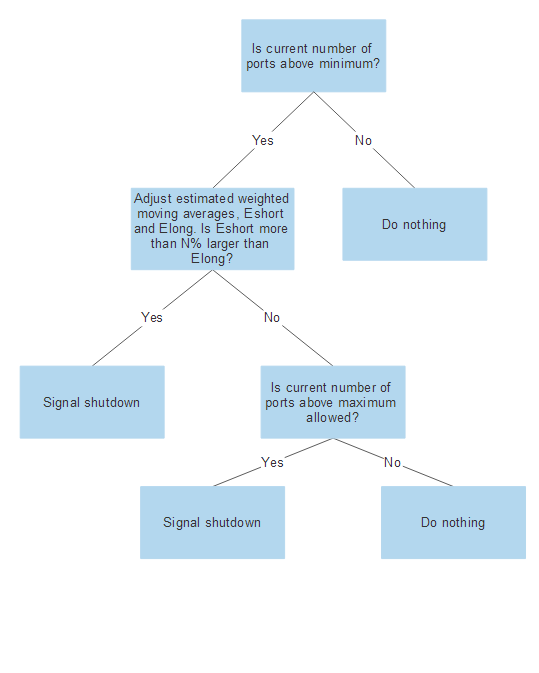
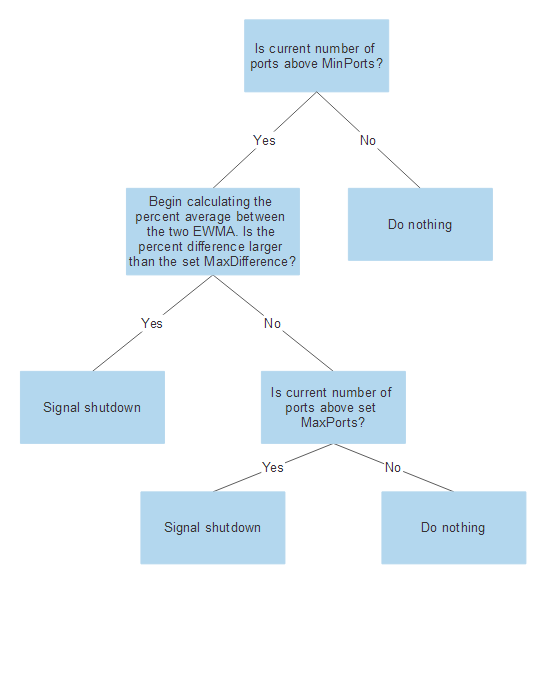
Correction to misspelling, and added information.

diff --git a/README.md b/README.md
@@ -71,43 +71,53 @@ If one of these two values isn't provided, the code signing stage will skip itse
 
 ##Project Description
 
-This project is designed to detect a sudden increase in the TCP port count in a system, and gracefully shutdown the `ActorSystem` when this is observed. 
+This project is designed to help detect a sudden increase in the TCP port count in a system, and gracefully shutdown the `ActorSystem` when this is observed. The configuration can be set to monitor slow increases or fast spikes in TCP port growth for one ore more local endpoints. 
 
 ###Methodology 
 
 The impulse response is done through the use of an Exponential Weighted Moving Average(EWMA). `EWMA` allows the observer to determine how much weight we want to emphasize in older readings versus newer readings. 
 
-To calculate when a large increase in TCP ports is detected, two EWMA's will be taken. One will have a short sample size and the other will have a larger sample size. Having a shorter sample size will result in the average being more responsive to change. Where a larger sample size will smooth out quick changes and be less responsive to change. 
+To calculate when a large increase in TCP ports is detected, two EWMA's will be taken. One will have a short sample size and the second will have a larger sample size. Having a shorter sample size will result in the average being more responsive to change. Where a larger sample size will smooth out quick changes and be less responsive to change.
 
-Using this behavior, we compare the two EMWA's and determine the difference between the two average. When there is a spike in the readings, the difference between the two averages will increase, with a fast increase resulting in a larger difference between the two averages. 
+Using this behavior, we compare the two EWMA's and determine the difference between the two. When a spike in TCP port count is experienced, the short sample EWMA will grow faster than the long sample EWMA will take longer to normalize. The percent difference between the two, will signal how quickly the TCP growth is. To monitor a fast change and have the system be more responsive to an increase, you will want to keep these sample sizes smaller. If you would like to monitor slower gradual changes, the sample rates can be increased. 
+
+The main way to detect a growth in TCP port count will be through the use of these average differences. However you may have a case where the growth in TCP port count is gradually increasing. Gradual enough where the difference between the two averages does not trigger a warning. To prevent the system from reaching a TCP exhaustion in such a a case, a limit can be set on the maximum number of ports an endpoint can have. When this maximum amount is set, the `ActorSystm` will be terminated when the port count exceeds this threshold. 
+
+The following is a graphical interpretation of how the system works when the there is an increase in the count, how each EWMA reacts to the change and how the percent difference grows due to this. In the values below, EMWA1 is our short sample EMWA and EWMA2 is our long sample EWMA. With CounterValue being the actual count we are seeing.
+
+  ***EWMA Divergence Graph***
+<div style="text-align:center"><img src ="docs/images/EWMA-Graph.png" /></div>
 
 ###Implementation
 
-The project is intended to help detect and warn when an increase in TCP port count is expected for one or more network interfaces. The project will be implemented by the creation of a `TcpPortUseSupervisor` actor. This actor will be created using the `ActorSystem` that we want to monitor and terminate if a large increase in TCP connections is detected. 
+The project is intended to help detect and warn when an increase in TCP port count is expected for one or more network interfaces. The project will be implemented by the creation of a `TcpPortUseSupervisor` actor. This actor will be created using the `ActorSystem` that we want to monitor and terminate in case of a large increase in TCP port count. 
 
-![A work flow of the below TCP port detection](docs/images/Message-Decision-Tree.png)
+***A work flow of the TCP port detection process***
+![](docs/images/Detection-WorkFlow.png)
 
-The `TcpPortUseSupervisor actor will create a ` TcpPortMonitoringActor which will scan all of the open TCP ports and group these by the local endpoints.  The count for each local endpoint will then be sent back to the `TcpPortUseSupervisor actor. 
 
-The `TcpPortUseSupevisor actor will then take these readings and determine if the number of TCP ports exceeds our normal operating numbers(MinPorts`). If the `MinPorts` number is exceeded, the actor will then signal the `SocketLeakDetectorActor` to begin monitoring the TCP ports for that particular endpoint. 
+The `TcpPortUseSupervisor` actor will create a  TcpPortMonitoringActor which will scan all of the open TCP ports and group these by the local endpoint.  The count for each local endpoint will then be sent back to the `TcpPortUseSupervisor` actor. 
 
-The `SocketLeakDetectorActor` will then continue to monitor the TCP port count for the specified endpoint through the use of the EWMA. When a fast increase in the TCP count is observed that exceeds the defined `MaxDifference`, a warning will be logged and a timer will be started. If the increase does not normalize within the set `BreachDuration` period, this actor will then signal the `TcpPortUseSupevisor actor that we need to terminate the `ActorSystem` to prevent port exhaustion. 
+The `TcpPortUseSupevisor` actor will then take these readings and determine if the number of TCP ports exceeds our normal operating numbers(MinPorts). If the `MinPorts` number is exceeded, the actor will then signal the `SocketLeakDetectorActor` to begin monitoring the TCP ports for that particular endpoint. 
 
-If the `SocketLeakDetectorActor` does not see a fast increase in the TCP port count but does see a continuous increase in the TCP port count, it will continue to monitor that local endpoint. If the number of TCP ports exceeds the `MaxPorts` allowed and does not drop below the `MaxPorts within the `BreachDuration` period, the `SocketLeakDetectorActor` will send a termination message back to the `SocketLeakDetectorActor` Actor. 
+The `SocketLeakDetectorActor` will then continue to monitor the TCP port count for the specified endpoint through the use of EWMA's. When a fast increase in the TCP count is observed that exceeds the defined `MaxDifference`, a warning will be logged and a timer will be started. If the increase does not normalize within the set `BreachDuration` period, this actor will then signal the `TcpPortUseSupevisor` actor that we need to terminate the `ActorSystem` to prevent port exhaustion. 
 
-A `BreachDuration` period is set, to allow the system to normalize in the event that the system experiences a short increase in the TCP port count but is able to lower these ports back to a normal state without outside intervention. 
+If the `SocketLeakDetectorActor` does not see a fast increase in the TCP port count but does see a continuous increase in the TCP port count, it will continue to monitor that local endpoint. If the number of TCP ports exceeds the `MaxPorts` allowed and does not drop below the `MaxPorts` within the `BreachDuration` period, the `SocketLeakDetectorActor` will send a termination message back to the `TcpPortUseSupevisor` Actor. 
 
-![The signal shutdown logic can be seen in the below diagram](docs/images/Message-Decision-Tree.png)
+A `BreachDuration` period is set to allow the system to normalize in the event that the system experiences a short increase in the TCP port count but is able to lower these ports back to a normal state without outside intervention. 
+<div>
+<div style="text-align:center">The signal shutdown logic can be seen in the below diagram<img src ="docs/images/Message-Decision-Tree.png" /></div>
+
 
 ###Configuration
 
-You will only need to create the `TcpPortUseSupervisor` actor to be able to monitor the TCP port growth in your system. This actor comes with default settings and does not require you to pass any settings if you do not want to edit these. You can however, create your own `SocketLeakDetectorSettigns` to modify how responsive you want your system to be. The following are the allowed configurations: 
+You will only need to create the `TcpPortUseSupervisor` actor to be able to monitor the TCP port growth in your system. This actor comes with default settings and does not require you to pass any customized settings for it to be used. You can however, create your own `SocketLeakDetectorSettigns` to modify how responsive you want your system to be. The following are the configurable settings: 
 
 ####SocketLeakDetectorSettings
 
 **MaxPorts**: The maximum allowed TCP ports for a set endpoint. If a port count for a particular endpoint exceeds this number, we will signal for the `ActorSystem` to be shutdown if it does not fall below the `MaxPorts` count under the `BreachDuration` period. 
 
-If you will like to have a maximum number of ports allowed before the `ActorSystem` is terminated you will want to lower this number. 
+If you will like to have a maximum number of ports allowed before the `ActorSystem` is terminated you will want to edit this number. 
 
 ***The default value*** is set to 65536 ports, which is the theoretical max allowed number of ports you can have on one endpoint. Please note you want the `MaxPorts` to be larger than your `MinPorts`.
 
@@ -117,24 +127,23 @@ You will want to set this number above the normal expected port count you plan t
 
 ***The default value*** set for this is for 100 ports. 
 
-**MaxDifference**: This will signal the max difference between the short sample EWMA and the long sample EWMA allowed. If the difference between the two EMWA remains above `MaxDifference` for longer than the set `BreachDuration`, the system will be terminated. 
+**MaxDifference**: This will signal the max difference between the short sample EWMA and the long sample EWMA allowed. If the difference between the two EWMA remains above `MaxDifference` for longer than the set `BreachDuration`, the system will be terminated. 
 
 The faster the growth in TCP, the larger the difference you will see between these two. You will want to set this number to a lower value if want your system to be more sensitive to fast change. 
 
 ***The default value*** set for this is for 0.20, which signals a 20% difference between the two averages. 
 
-
-**LargeSampleSize**: This will be the set sample sized used for the large sample EMWA. The higher this number the less responsive the EMWA will be to change. 
+**LongSampleSize**: This will be the set sample size used for the long sample EWMA. The higher this number the less responsive the EWMA will be to change. 
 
 ***The default value*** will be for a sample size of 50. 
 
-**SmallSampleSize**: This will be the set sample sized used for the sample sample EMWA. The lower this number more responsive the EMWA will be to change. 
+**ShortSampleSize**: This will be the set sample size used for the short sample EWMA. The lower this number the more responsive the EWMA will be to change. 
 
 ***The default value*** will be for a sample size of 10. 
 
-**Important note about setting your LargeSampleSize and SmallSampleSize**: The closer these values are to each other, the faster the change in TCP growth will have to be for us to see a percent difference between the short sample EWMA and large sample EWMA. The higher the number for these values, the less responsive they will be to change and the higher the growth you will need to see. 
+**Important note about setting your LongSampleSize and ShortSampleSize**: The closer these values are to each other, the faster the change in TCP growth will have to be for us to see a percent difference between the two EWMA's. The higher the number for these values, the less responsive they will be to change and the higher the growth you will need to see for the difference to grow. 
 
-**PortCheckInterval**: The interval at which we would like to sample the TCP port count. The shorter the interval the less responsive the system will be to change. 
+**PortCheckInterval**: The interval that we would like to sample the TCP port count. The shorter the interval the less responsive the system will be to change. 
 
 ***The default value*** will be of 1 second. 
 
@@ -144,43 +153,45 @@ The faster the growth in TCP, the larger the difference you will see between the
 
 
 
-**IPAddress**: You can pass in a list of `IPAddress` as a parameter to you `TcpPortUseSupervisor ` actor that you wish to whitelist. When you pass in a list of `IPAddress` only these endpoints will be monitored. 
+**IPAddress**: If you do not want to monitor all of the local endpoints, you can pass in a list of `IPAddress` as a parameter to you `TcpPortUseSupervisor` actor. When you pass in a list of `IPAddress`, these will be white-listed and all other `IPAddress` will be ignored for TCP port growth. When no list is `IPAddress` is passed as a parameter, all local endpoints will be monitored for TCP growth. 
 
-***The default value*** for this parameter is to look for all the endpoints. If you do not wish to monitor all of the endpoints you can pass in a list with one or more `IPAddress`. 
+***The default value*** for this parameter is to look for all the endpoints. If you do not wish to monitor all of the endpoints you can pass in a list with one or more `IPAddress` which you wish to monitor for this `ActorSystem`. 
 
 ##Setting up the TcpPortUseSupervisor actors
 
-Three ways to setup your `TcpPortUseSupervisor` can be seen below: 
+The following are three ways to setup your `TcpPortUseSupervisor`: 
 
 **Setting up your actor with default settings to monitor all local endpoints**
 
 ```csharp
-			var actorSystem = ActorSystem.Create("PortDetector", "akka.loglevel = DEBUG"); 
-            var supervisor = actorSystem.ActorOf(Props.Create(() => new TcpPortUseSupervisor()), "tcpPorts");
-            await actorSystem.WhenTerminated;
+var actorSystem = ActorSystem.Create("PortDetector", "akka.loglevel = DEBUG"); 
+var supervisor = actorSystem.ActorOf(Props.Create(() => new TcpPortUseSupervisor()), "tcpPorts");
+await actorSystem.WhenTerminated;
 ```
 
 **Setting up your actor with customized settings to monitor all local endpoints**
 
 ```csharp
-			var actorSystem = ActorSystem.Create("PortDetector", "akka.loglevel = DEBUG");
-            SocketLeakDetectorSettings settings = new SocketLeakDetectorSettings
-            {
-                MaxDifference = 0.3,
-                MaxPorts = 120,
-                MinPorts = 80,
-                LongSampleSize = 120,
-                ShortSampleSize = 80,
-                BreachDuration = TimeSpan.FromSeconds(30),
-                PortCheckInterval = TimeSpan.FromMilliseconds(500)
-            };
+var actorSystem = ActorSystem.Create("PortDetector", "akka.loglevel = DEBUG");
+SocketLeakDetectorSettings settings = new SocketLeakDetectorSettings
+{
+	MaxDifference = 0.3,
+	MaxPorts = 120,
+	MinPorts = 80,
+    LongSampleSize = 120,
+    ShortSampleSize = 80,
+    BreachDuration = TimeSpan.FromSeconds(30),
+    PortCheckInterval = TimeSpan.FromMilliseconds(500)
+};
 
-            var supervisor = actorSystem.ActorOf(Props.Create(() => new TcpPortUseSupervisor(settings)), "tcpPorts");
+var supervisor = actorSystem.ActorOf(Props.Create(() => new TcpPortUseSupervisor(settings)), "tcpPorts");
 ```
 
-***Setting up your actor with only one whitelisted address***
+***Setting up your actor with only one white-listed address***
 
 ```csharp 
-x           var actorSystem = ActorSystem.Create("PortDetector", "akka.loglevel = DEBUG");               List<IPAddress> iPList = new List<IPAddress> { IPAddress.Parse("127.0.0.1") };	               var supervisor = actorSystem.ActorOf(Props.Create(() => new TcpPortUseSupervisor(iPList)), "tcpPorts");csharp 
+var actorSystem = ActorSystem.Create("PortDetector", "akka.loglevel = DEBUG");
+List<IPAddress> iPList = new List<IPAddress> { IPAddress.Parse("127.0.0.1") };	               
+var supervisor = actorSystem.ActorOf(Props.Create(() => new TcpPortUseSupervisor(iPList)), "tcpPorts"); 
 ```
 
